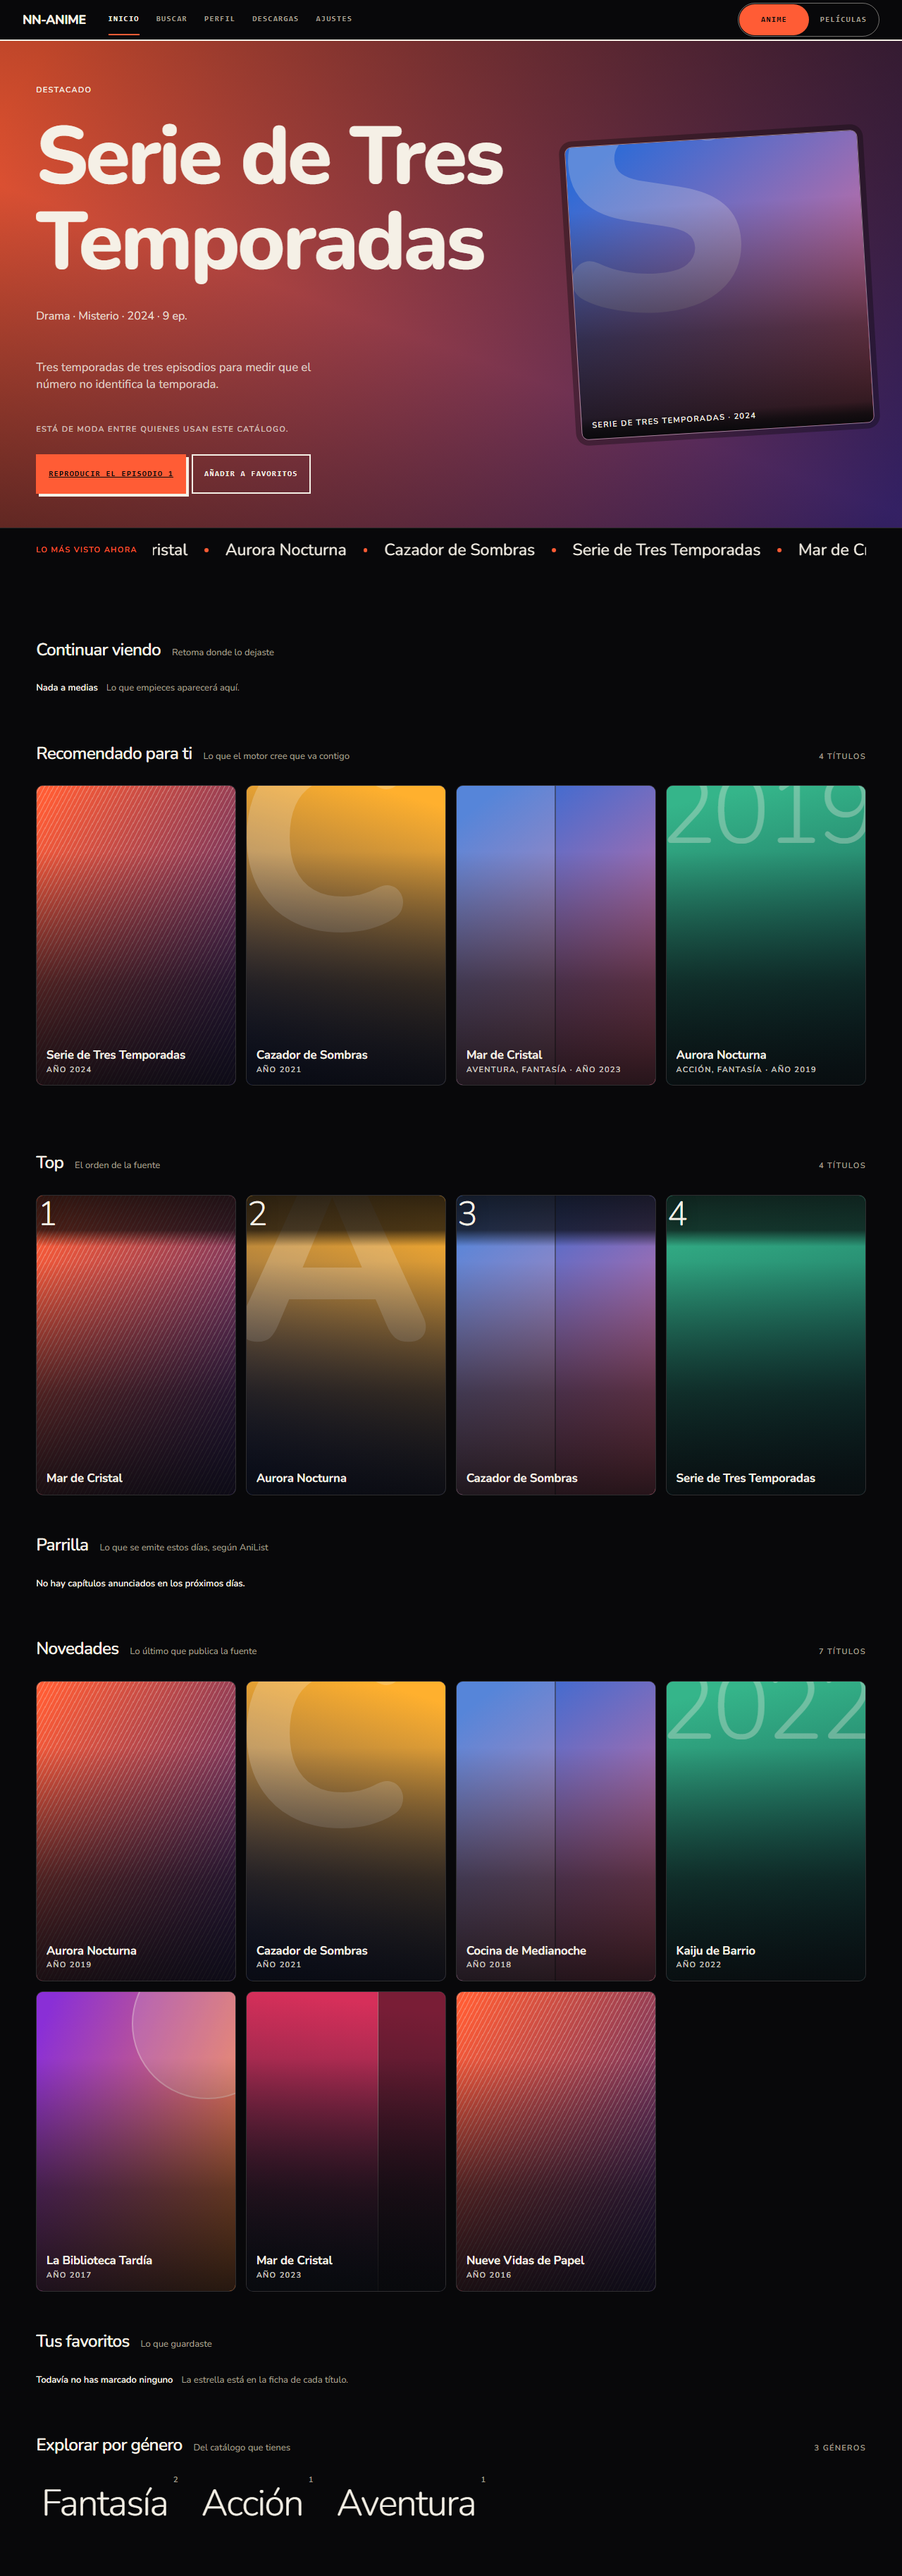
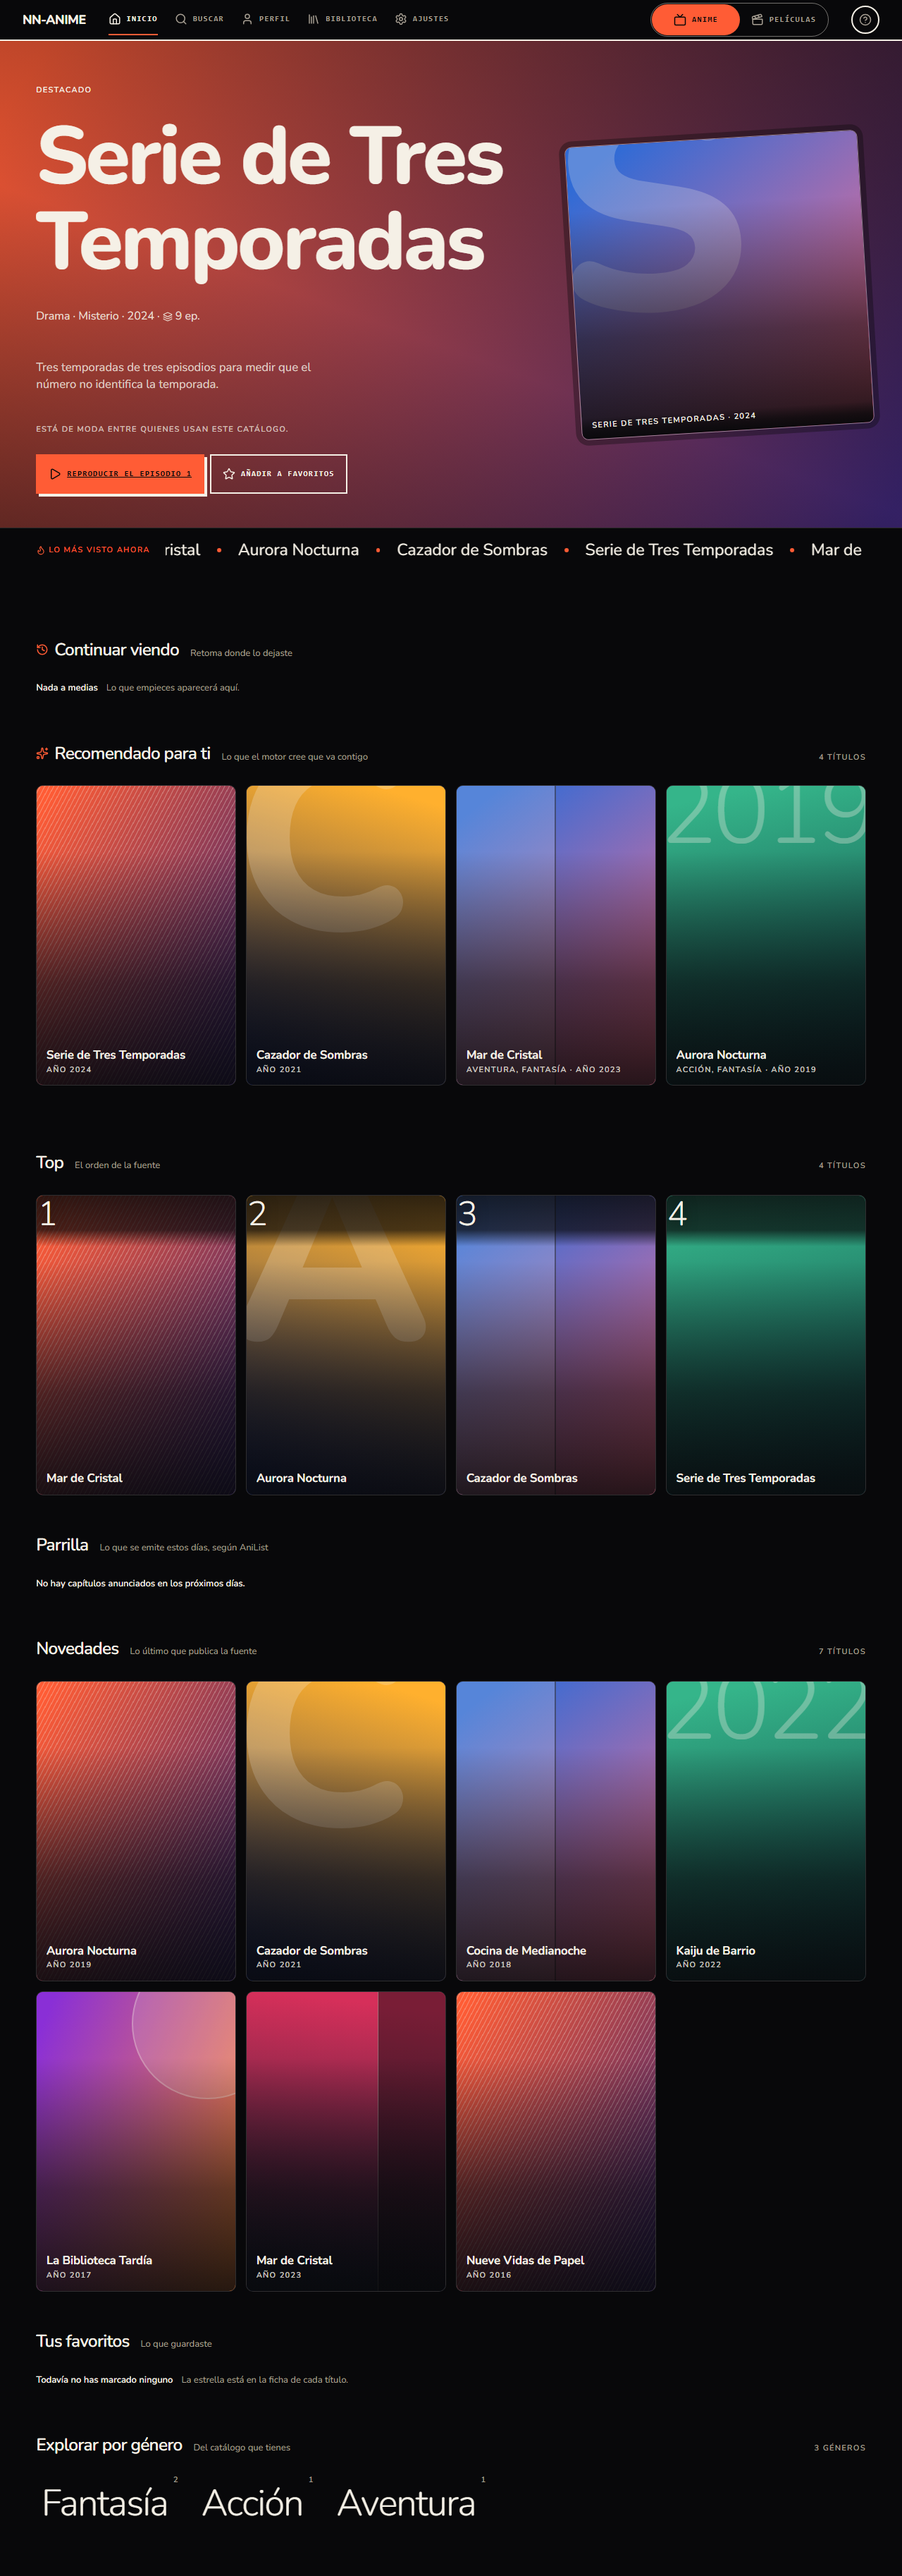
docs(readme): el stack, una sola captura y el texto que sobraba
- README: una sola captura (tema oscuro), sección «Cómo está hecho: el
  stack» con la tabla de capas, los nueve paquetes y el listón, y poda de
  repeticiones (bandeja, aviso de firma, proveedor de fábrica) y de la
  historia que ya no ayuda a usar ni a mantener el proyecto.
- README: la biblioteca y las descargas, que faltaban desde v0.6.0, y la
  carpeta de descargas en la tabla de rutas.
- scripts/captura.ts: un solo tema. La guía de primera vez y el aviso se
  siembran como vistos para que no tapen el destacado en la captura.
- Fuera docs/captura-claro.png y su NN_ANIME_CAPTURA_CLARO; PRODUCT.md
  queda con la captura que existe.

Verificación: `bun run typecheck` 0 · `bun test packages/web/src/docs.test.ts`
10/10 · `bun test` 3445 pasan, 10 fallan sólo por el sandbox (EPERM al
lanzar `git` en las pruebas de worktree y del gancho, ajenas a este
cambio) · `bun run lint` sigue en rojo por los directorios sin versionar
`.grok/` y `.codex/`, que ya estaban; `biome check scripts/captura.ts` 0.
Captura rehecha dos veces con el arnés del e2e (la segunda, sin la guía).

diff --git a/scripts/captura.ts b/scripts/captura.ts
@@ -1,23 +1,29 @@
 /**
- * Las capturas de la home, para el README: tema oscuro y tema claro.
+ * La captura de la home, para el README: tema oscuro.
  *
- * Se hacen con el arnés del e2e —servidor con el fixture, base temporal y la
+ * Se hace con el arnés del e2e —servidor con el fixture, base temporal y la
  * excepción de loopback— porque una captura hecha a mano envejece sin que nadie
- * se entere: éstas se pueden volver a hacer con un comando.
+ * se entere: ésta se puede volver a hacer con un comando. **El README publica un
+ * solo tema**: el claro existió y se retiró porque duplicaba la imagen sin decir
+ * nada nuevo, y dos capturas de dos megas pesan en el repositorio.
  *
- * **El token de arranque es de un solo uso**, así que las dos capturas se hacen
- * en la misma sesión: la segunda cambia el atributo del tema a mano. Intentarlo
- * con dos navegadores daba una segunda captura en blanco, con un 401, porque el
- * token ya estaba gastado.
+ * **El token de arranque es de un solo uso**: se canjea al abrir la página. Con
+ * un segundo navegador la captura salía en blanco, con un 401, porque el token
+ * ya estaba gastado.
  */
 
 import { mkdir, readFile } from 'node:fs/promises'
 import { dirname } from 'node:path'
 import { chromium } from '@playwright/test'
+import {
+  AVISOS,
+  CLAVE_GUIA,
+  RECORRIDOS,
+  VERSION_GUIA,
+} from '../packages/web/src/features/guia/guia'
 
 const PORT = Number(process.env.NN_ANIME_E2E_PORT ?? '7801')
 const DESTINO = process.env.NN_ANIME_CAPTURA ?? 'docs/captura.png'
-const DESTINO_CLARO = process.env.NN_ANIME_CAPTURA_CLARO ?? 'docs/captura-claro.png'
 const token = (await readFile('.tmp/e2e-boot-token', 'utf8')).trim()
 
 const navegador = await chromium.launch({ args: ['--mute-audio'] })
@@ -25,6 +31,30 @@ const contexto = await navegador.newContext({
   viewport: { width: 1280, height: 800 },
   colorScheme: 'dark',
 })
+
+// La guía de primera vez y el aviso de lo nuevo, ya vistos: sin esto el
+// recorrido automático tapa el destacado y la captura del README enseña un
+// tutorial en vez de la home. Se siembra el mismo estado que deja la guía al
+// cerrarla, leído de su módulo —clave, versión, recorridos y avisos—, así que
+// un recorrido nuevo no obliga a tocar esta lista.
+const estadoGuia = {
+  v: VERSION_GUIA,
+  recorridos: RECORRIDOS.map((recorrido) => recorrido.id),
+  vistos: AVISOS.map((aviso) => aviso.id),
+}
+await contexto.addInitScript(
+  ([clave, valor]: readonly [string, string]) => {
+    try {
+      localStorage.setItem(clave, valor)
+    } catch {
+      // Sin almacén —modo privado— la guía saldría en la captura. Se dice en la
+      // salida en vez de sacar una imagen con un tutorial encima.
+      console.warn('la captura no pudo sembrar el estado de la guía')
+    }
+  },
+  [CLAVE_GUIA, JSON.stringify(estadoGuia)] as const,
+)
+
 const pagina = await contexto.newPage()
 
 await pagina.goto(`http://127.0.0.1:${PORT}/?boot=${token}`)
@@ -41,19 +71,15 @@ await pagina.goto(`http://127.0.0.1:${PORT}/`)
 await pagina.waitForSelector('.pz__enlace', { timeout: 15_000 }).catch(() => {})
 await pagina.waitForTimeout(1500)
 
-for (const [tema, destino] of [
-  ['dark', DESTINO],
-  ['light', DESTINO_CLARO],
-] as const) {
-  await pagina.evaluate((valor: string) => {
-    document.documentElement.dataset.theme = valor
-  }, tema)
+// La página se captura entera: recortada a la ventana no enseña ni el top ni las
+// filas, que es lo que hay que revisar. El tema se fija a mano porque la captura
+// no puede depender de la preferencia del sistema de quien la saca.
+await pagina.evaluate(() => {
+  document.documentElement.dataset.theme = 'dark'
+})
 
-  await mkdir(dirname(destino), { recursive: true })
-  // Página entera: la captura del rediseño recortada a la ventana no enseñaba
-  // ni el top ni las filas, que es lo que había que revisar.
-  await pagina.screenshot({ path: destino, fullPage: true })
-  console.log(`captura ${tema} en ${destino}`)
-}
+await mkdir(dirname(DESTINO), { recursive: true })
+await pagina.screenshot({ path: DESTINO, fullPage: true })
+console.log(`captura en ${DESTINO}`)
 
 await navegador.close()

diff --git a/PRODUCT.md b/PRODUCT.md
@@ -136,9 +136,8 @@ de esa señalización. Ninguna de las dos fases está abierta.
 
 ## Evidence on Hand
 
-- `docs/captura.png` y `docs/captura-claro.png`: la home real en tema oscuro y claro, sacadas del
-  arnés de e2e con el plugin de ejemplo. Las portadas son degradados porque el fixture apunta a
-  `fixture.invalid`, que no existe.
+- `docs/captura.png`: la home real en tema oscuro, sacada del arnés de e2e con el plugin de
+  ejemplo. Las portadas son degradados porque el fixture apunta a `fixture.invalid`, que no existe.
 - `packages/providers-fixture`: doce títulos inventados. No hay contenido, ni proveedores reales, ni
   datos de terceros en el repositorio.
 - `README.md`, `SECURITY.md`, `docs/*.md`, `docs/specs/*` y `tasks/*`: comportamiento, riesgo
